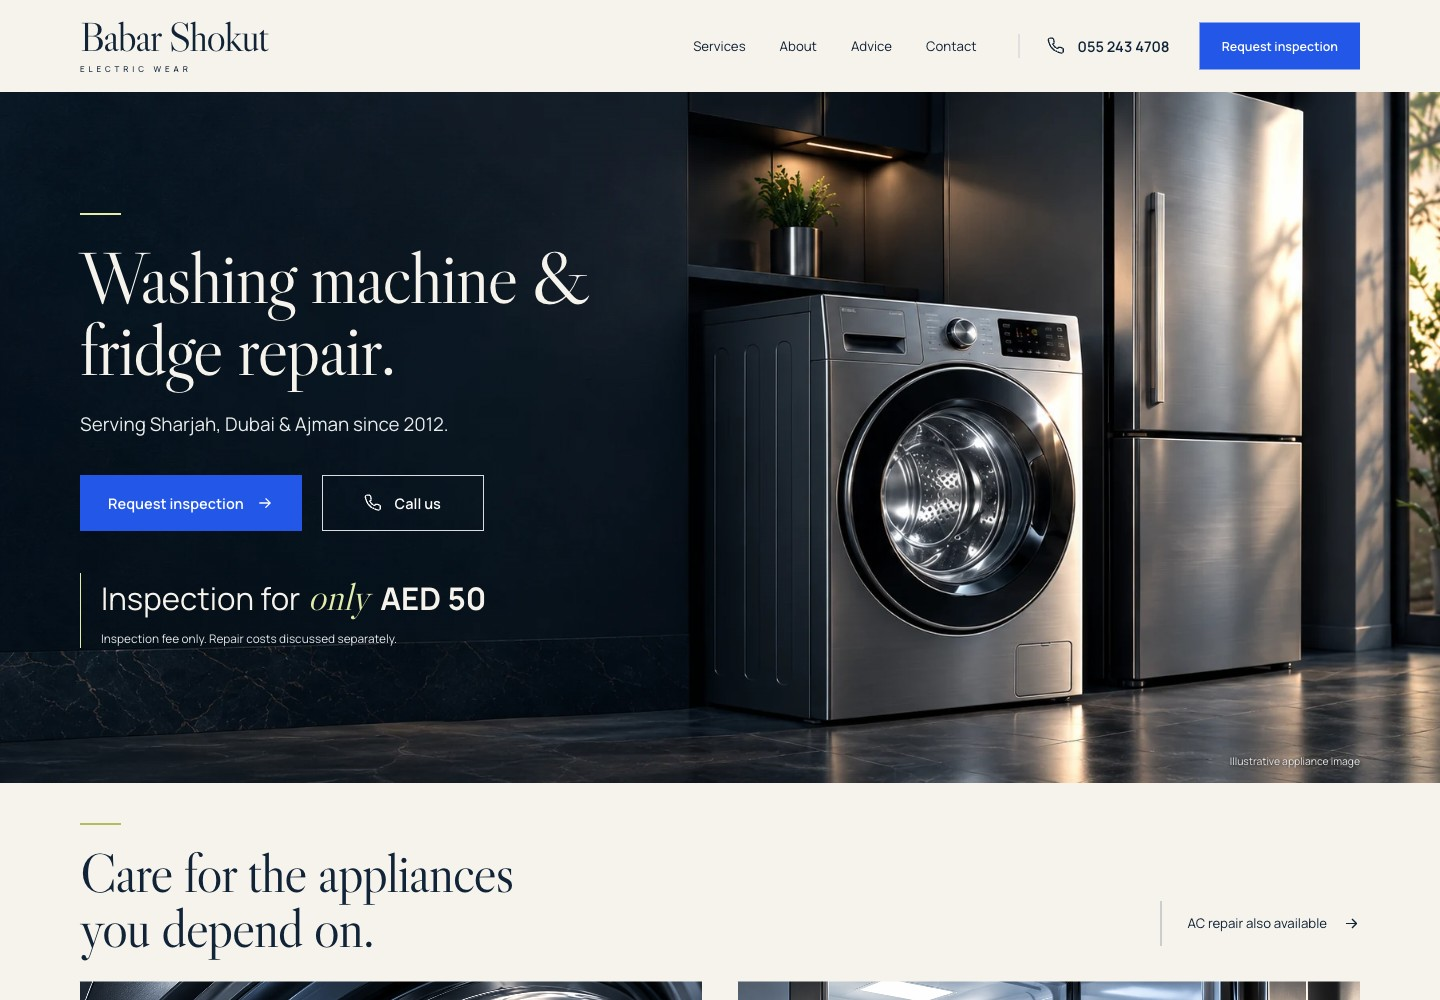
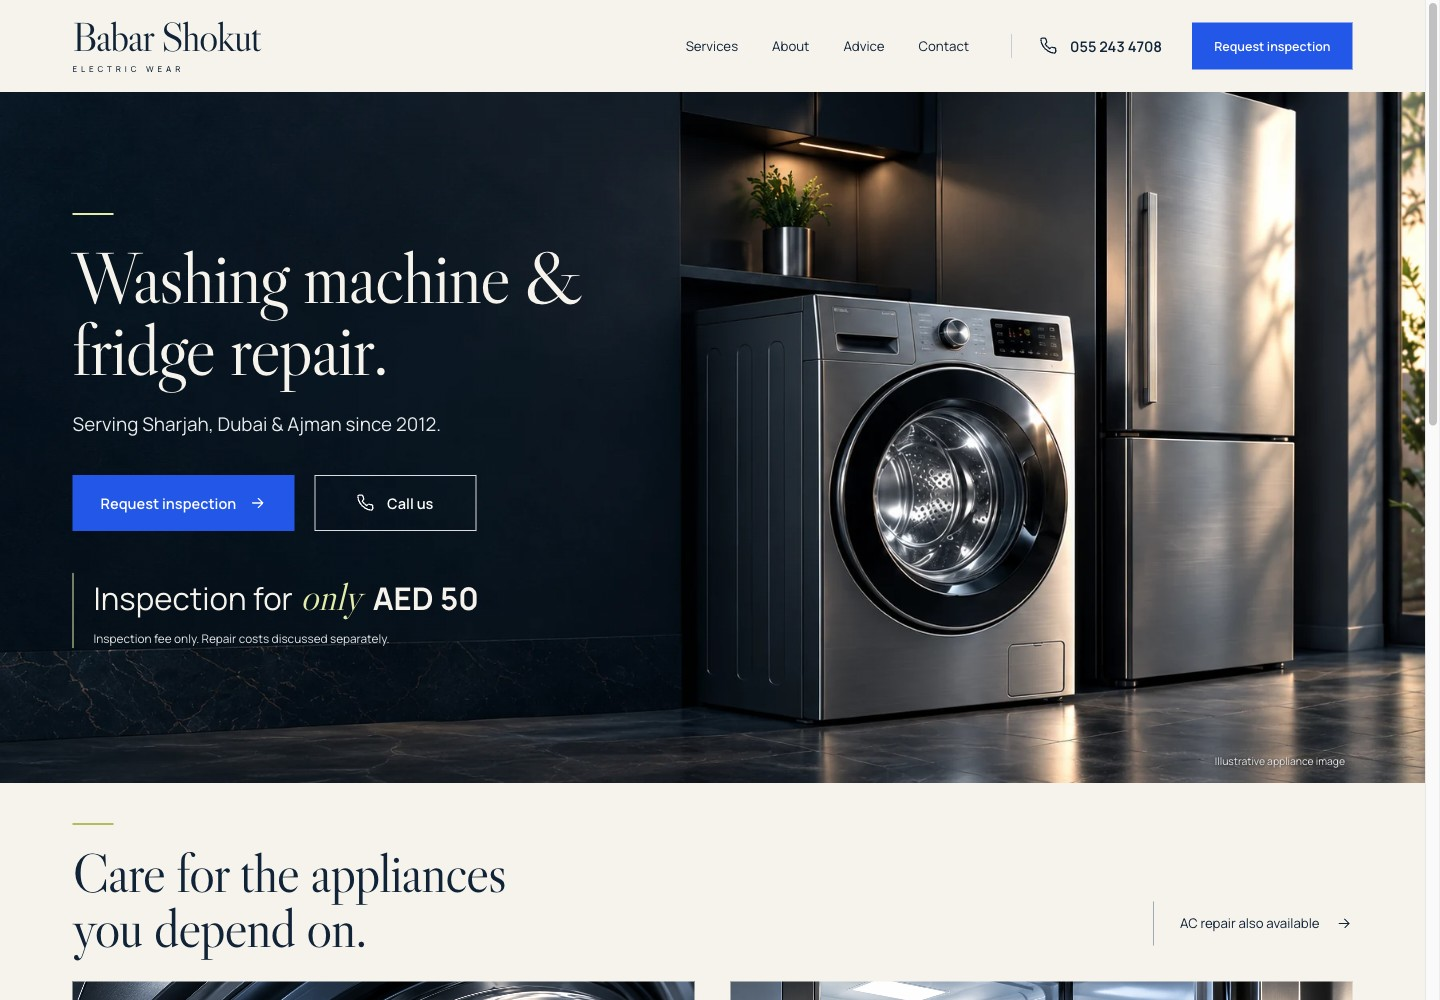
Record live verification of approved concept [skip ci]

diff --git a/VERIFICATION.md b/VERIFICATION.md
@@ -60,3 +60,5 @@ The service-led revision was deployed successfully from commit `0cd2968703fcb1bb
 Implemented the approved concept in the existing nine-page site using real semantic HTML and responsive CSS. New versioned hero/washer/fridge illustrations were generated with built-in imagegen, optimized to WebP and documented in `assets/ASSET-NOTES.md`. Preserved the original five guide texts and source links; only their imagery and alt text changed. No font binaries are included. Updated font disclosure and all contact actions to Call us. Inspection for only AED 50 is accompanied by separate-repair-cost wording.
 
 Visually inspected homepage, advice hub and drainage article at desktop 1440px and mobile 390px. Checked these templates at 320px and 768px as well: no broken images or horizontal document overflow. Examined homepage breakpoints from 320px to 1920px and corrected clipping in the small-screen price line. Checked mobile menu, About reveal, FAQs, appliance presets, required-city validation, modal fit/scroll lock/focus return, Fridges filter (two guides), unmatched search, and reset (five guides). Tested the generated WhatsApp draft with its external opening intercepted; no message was sent. No application JS errors observed. Build, static release check (nine HTML pages, 309 references) and node syntax pass. Preview/noindex remains enabled.
+
+The approved concept implementation deployed from commit `75058015f1b25df58db7d292122b8265790efd83`. GitHub Actions build and Pages deployment succeeded: https://github.com/BaderAsad1/babar-shokut-website/actions/runs/39937202930. Browser verified the actual public homepage at desktop and mobile, advice index and drainage article: HTTP 200, premium assets/font loaded, no broken images, no horizontal overflow and noindex present. Separate HTTPS requests returned 200 for all eight content routes and all three new WebP assets. Verified the live offer markup and absence of Call Bilal links. The live preview remains https://baderasad1.github.io/babar-shokut-website/ .
